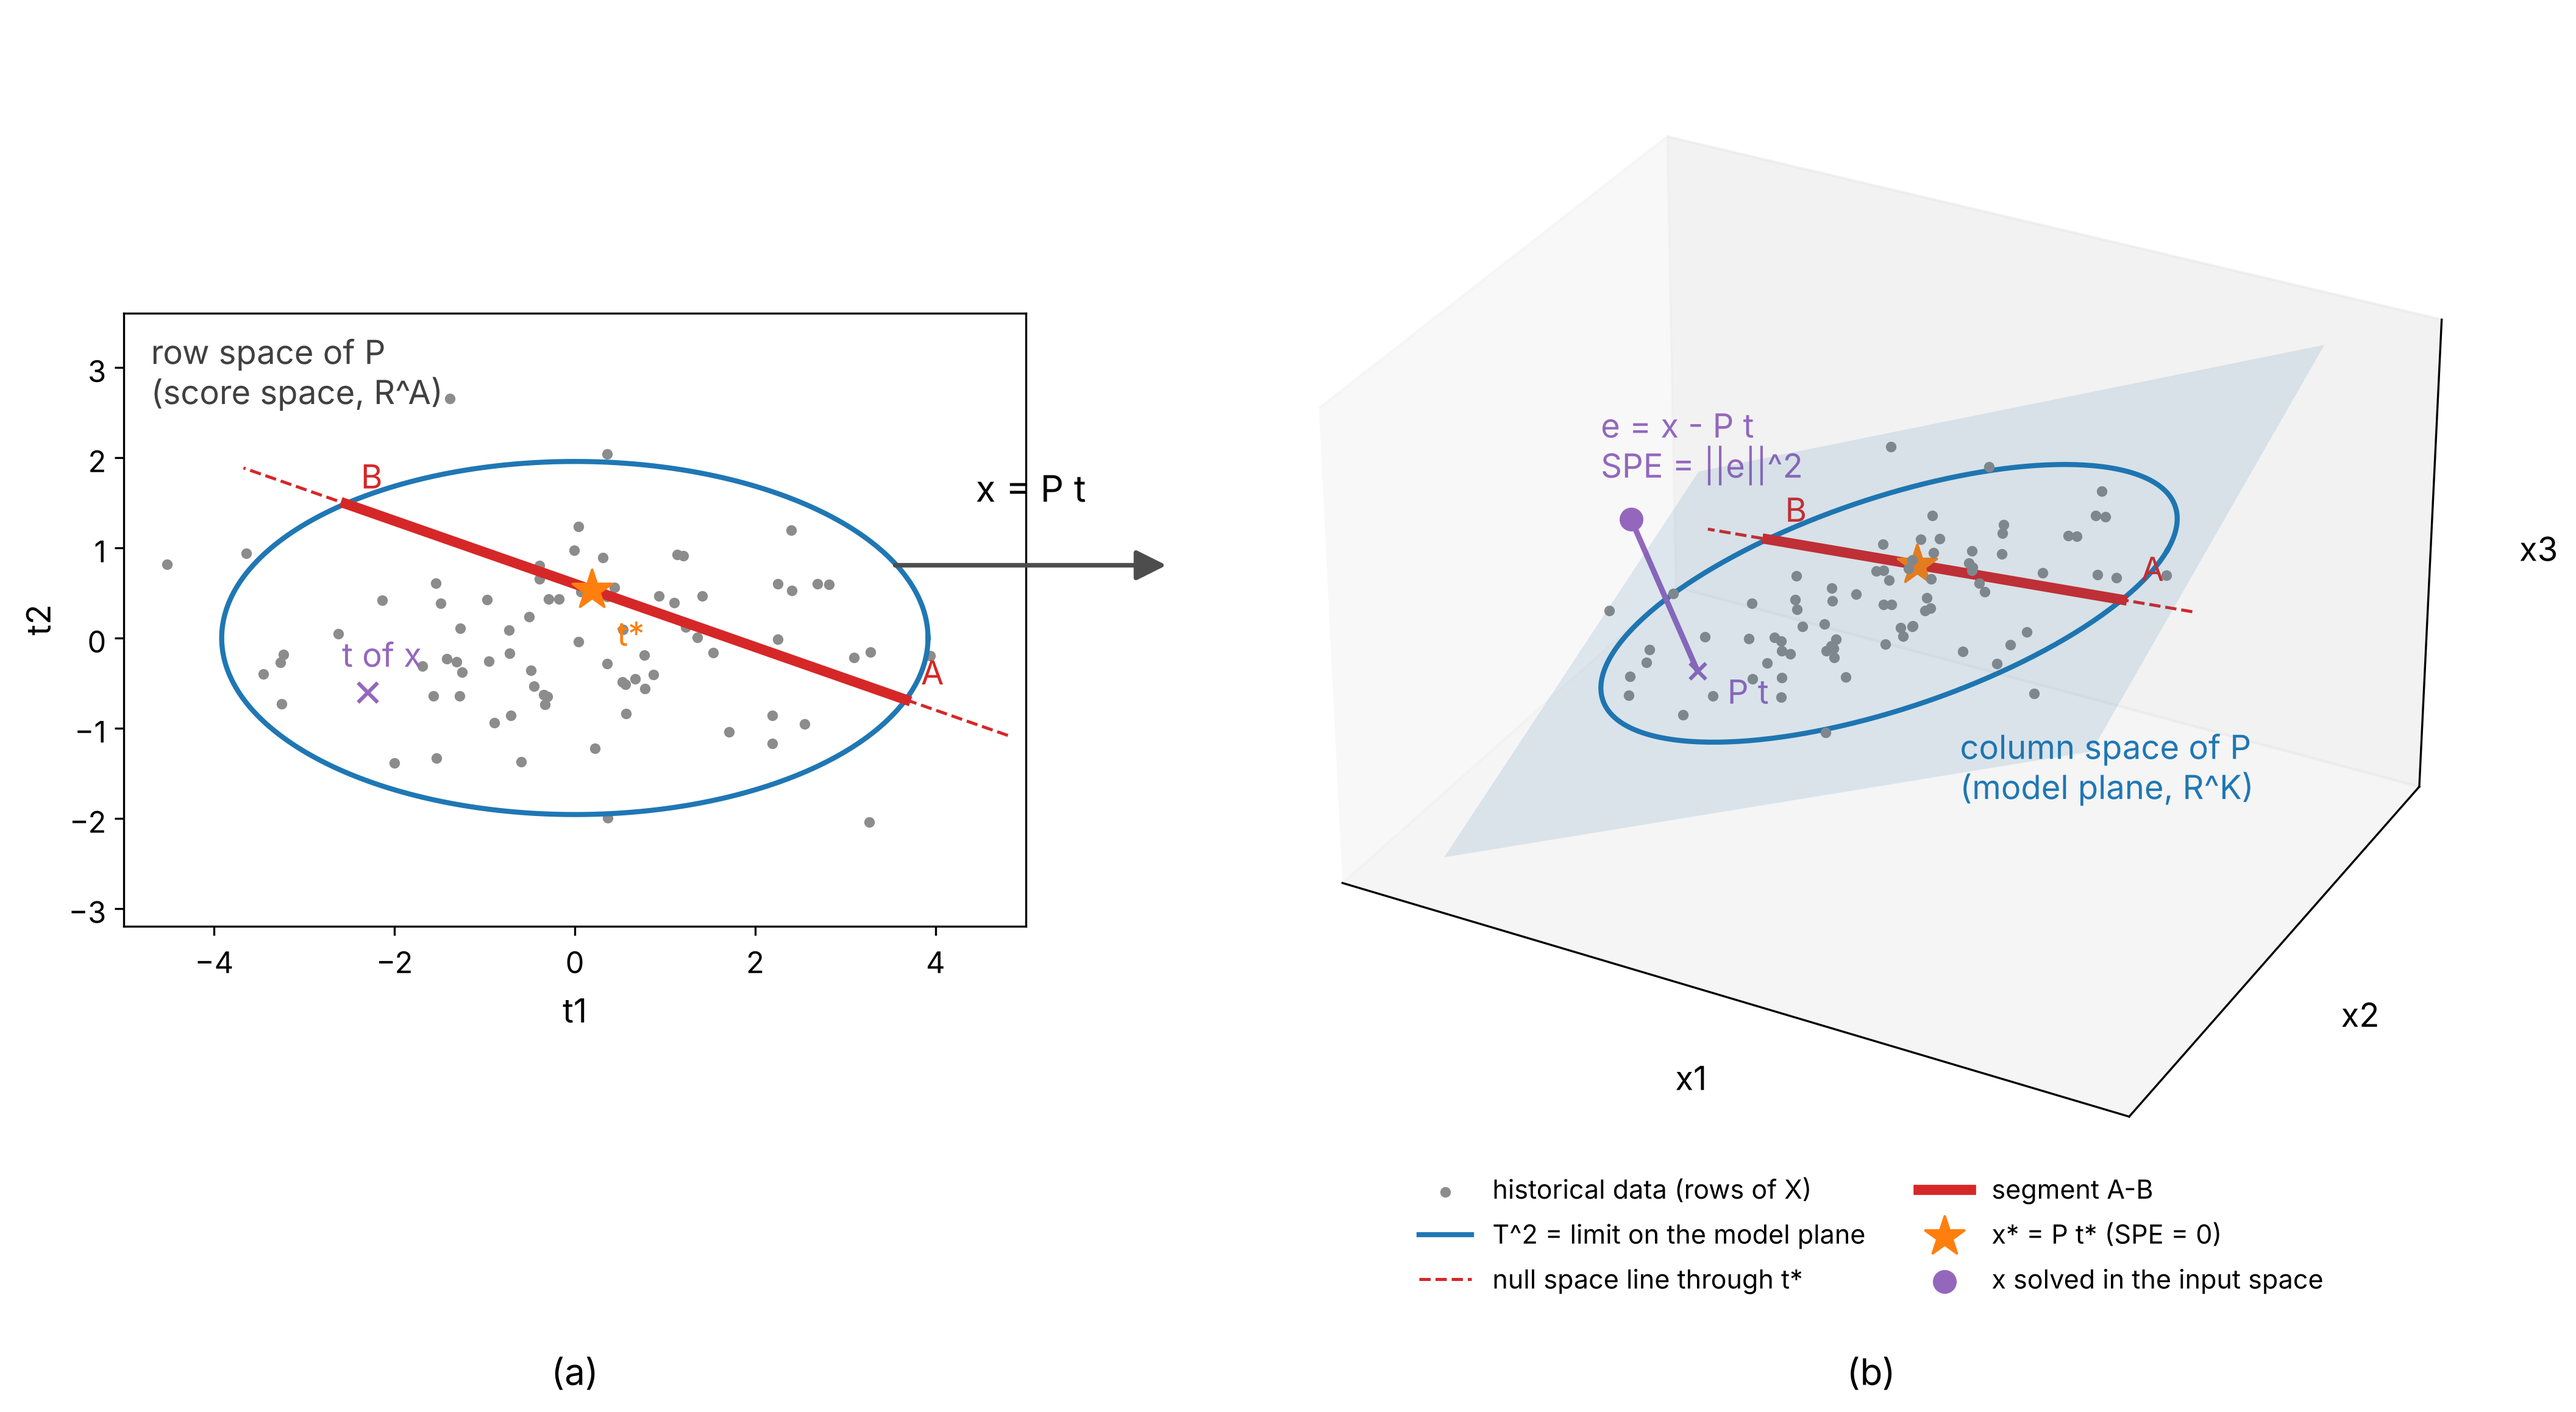
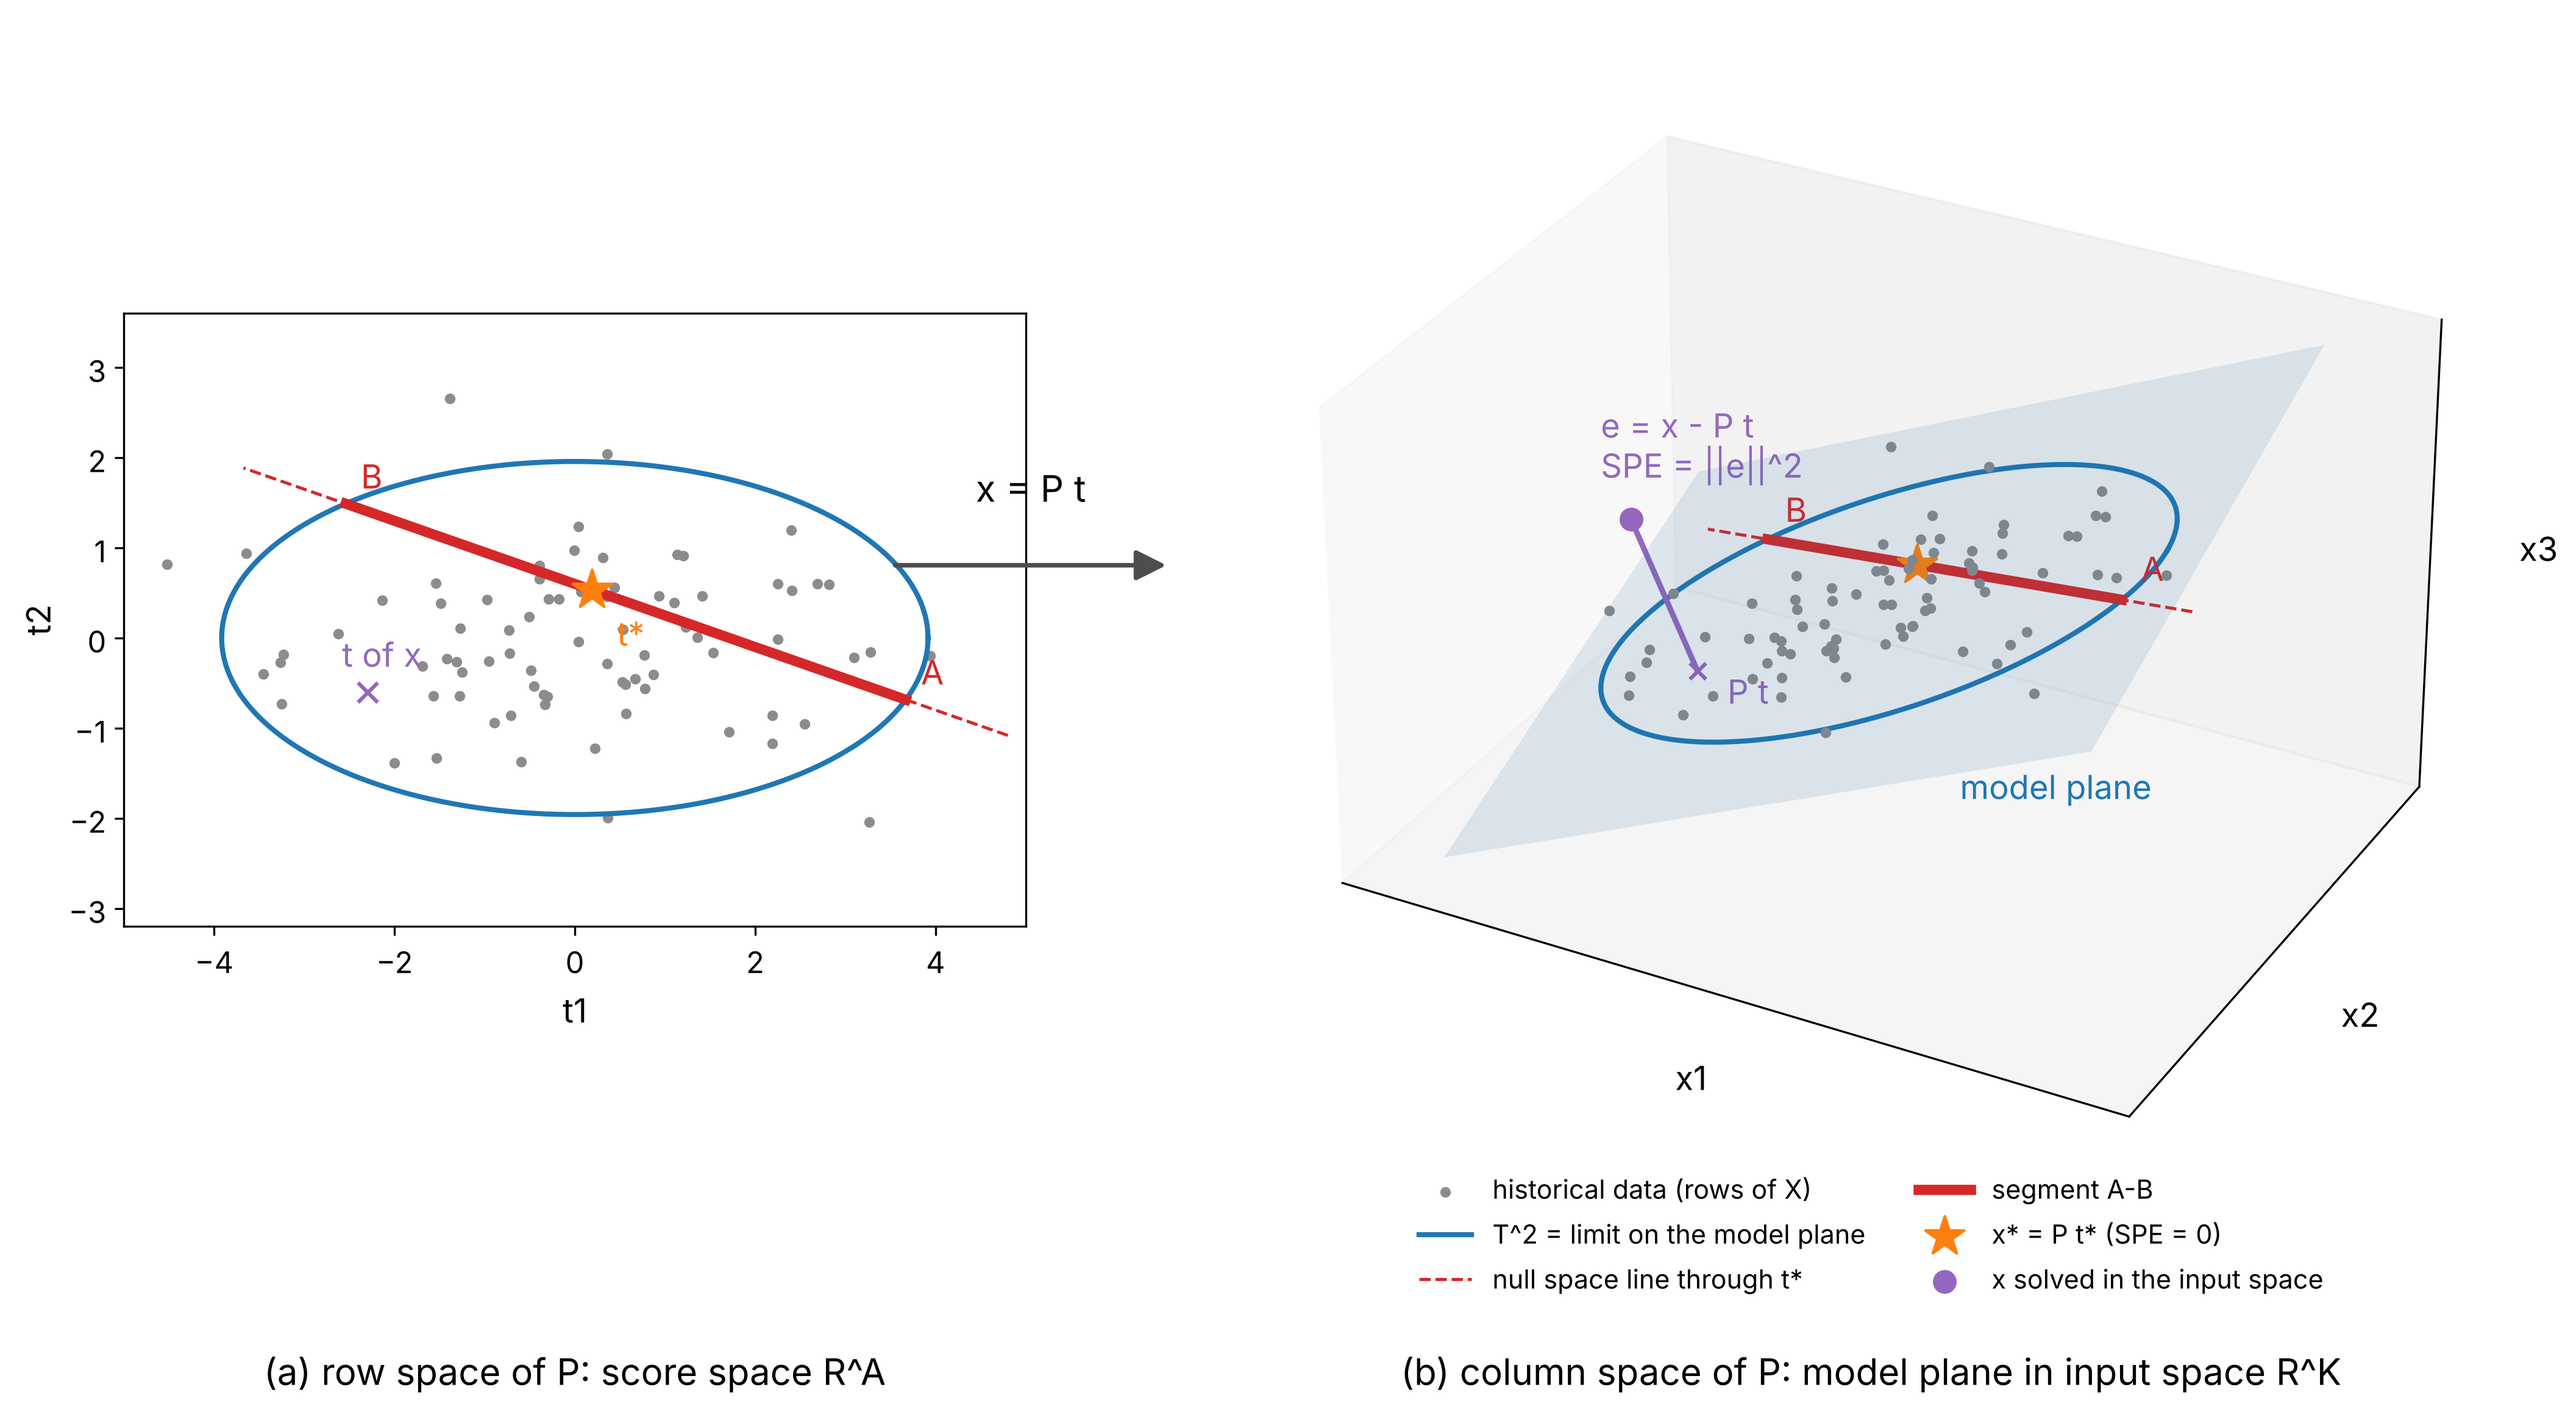
Write the panel captions of Fig 9 as row space and column space of P
Claude-Session: https://claude.ai/code/session_01GkUUsD7iqvuHXk9r2Ngc7Y

diff --git a/Models/Inverse-Problem/inverse_problem_fig.py b/Models/Inverse-Problem/inverse_problem_fig.py
@@ -8,7 +8,7 @@ Changelog:
     0.15.0: Add fig_3, the null space and the T^2 validity region in the score plane.
 """
 __author__ = 'yRocket'
-__version__ = "0.19.0.2026.11.1"  # Semantic Versioning: Major.Minor.Patch.Date(YYYY.M.D)
+__version__ = "0.19.1.2026.11.1"  # Semantic Versioning: Major.Minor.Patch.Date(YYYY.M.D)
 
 import argparse
 import pathlib
@@ -716,8 +716,6 @@ def fig_9(out_folder: pathlib.Path) -> pathlib.Path:
     for name, point in zip(('A', 'B'), seg_t):
         ax2.annotate(name, point, textcoords='offset points', xytext=(6, 6), fontsize=text_size,
                      color=COLORS[3])
-    ax2.text(0.03, 0.97, 'row space of P\n(score space, R^A)', transform=ax2.transAxes, va='top',
-             fontsize=text_size, color='0.25')
     ax2.set_xlim(-5.0, 5.0)
     ax2.set_ylim(-3.2, 3.6)
     ax2.set_aspect('equal', adjustable='box')
@@ -748,7 +746,7 @@ def fig_9(out_folder: pathlib.Path) -> pathlib.Path:
     ax.text(*(foot + np.array([0.2, 0.3, -0.45])), 'P t', color=COLORS[4], fontsize=text_size)
     for name, point in (('A', point_a), ('B', point_b)):
         ax.text(*(point + np.array([0.15, 0.15, 0.15])), name, color=COLORS[3], fontsize=text_size)
-    ax.text(*(loadings @ np.array([3.0, -3.4])), 'column space of P\n(model plane, R^K)', color=COLORS[0],
+    ax.text(*(loadings @ np.array([3.0, -3.4])), 'model plane', color=COLORS[0],
             fontsize=text_size)
     for setter, name in ((ax.set_xlabel, 'x1'), (ax.set_ylabel, 'x2'), (ax.set_zlabel, 'x3')):
         setter(name, fontsize=text_size)
@@ -763,10 +761,10 @@ def fig_9(out_folder: pathlib.Path) -> pathlib.Path:
     fig.patches.append(FancyArrowPatch(
         (0.37, 0.53), (0.46, 0.53), transform=fig.transFigure, arrowstyle='-|>', mutation_scale=25,
         color='0.3', linewidth=1.8))
-    panel_caption(fig, [ax2], '(a)', y=0.0)
-    panel_caption(fig, [ax], '(b)', y=0.0)
+    panel_caption(fig, [ax2], '(a) row space of P: score space R^A', y=0.0)
+    panel_caption(fig, [ax], '(b) column space of P: model plane in input space R^K', y=0.0)
     for text in fig.texts:
-        if text.get_text() in ('(a)', '(b)'):
+        if text.get_text().startswith(('(a)', '(b)')):
             text.set_fontsize(font_size(1.6))
 
     out_path = out_folder / 'spe-schematic.png'
